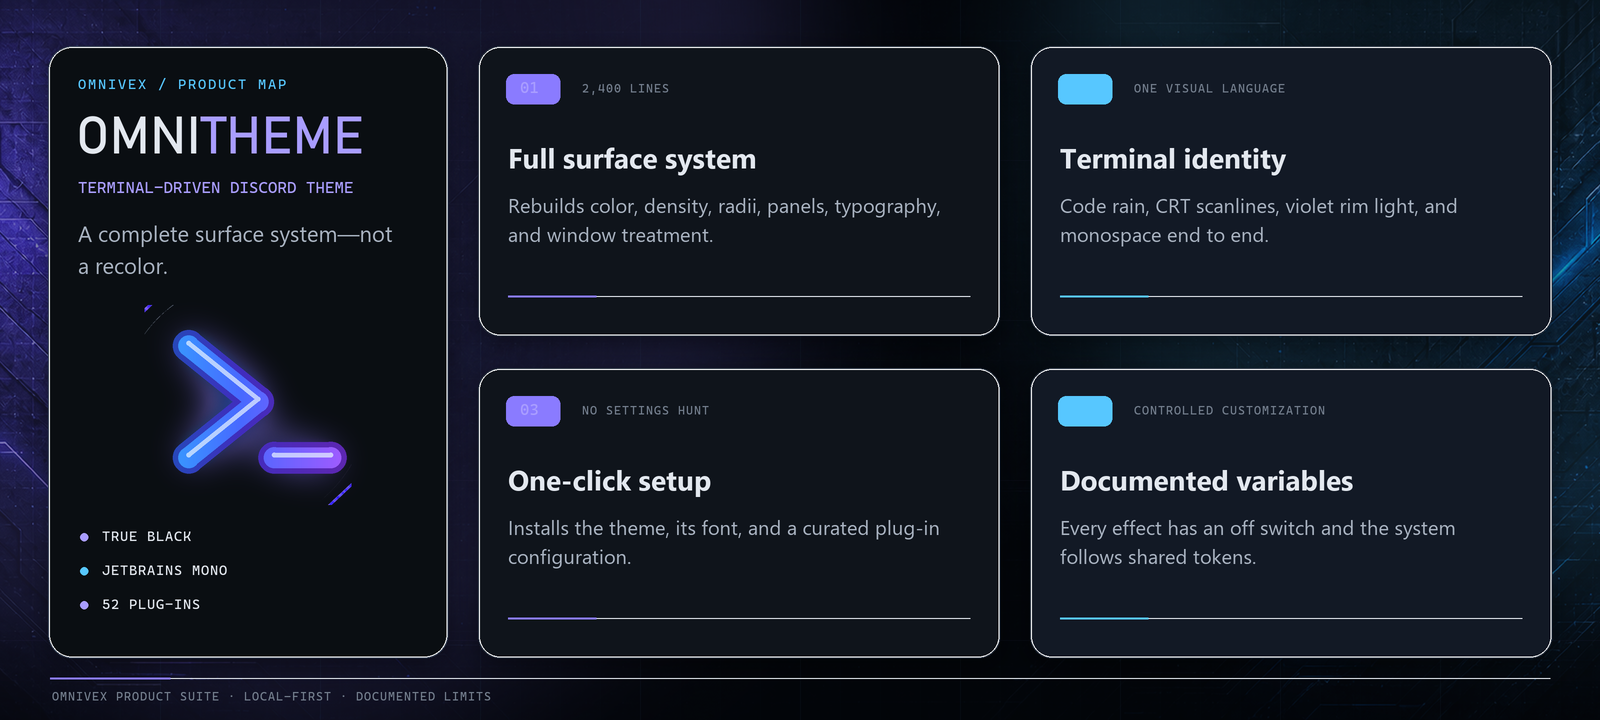
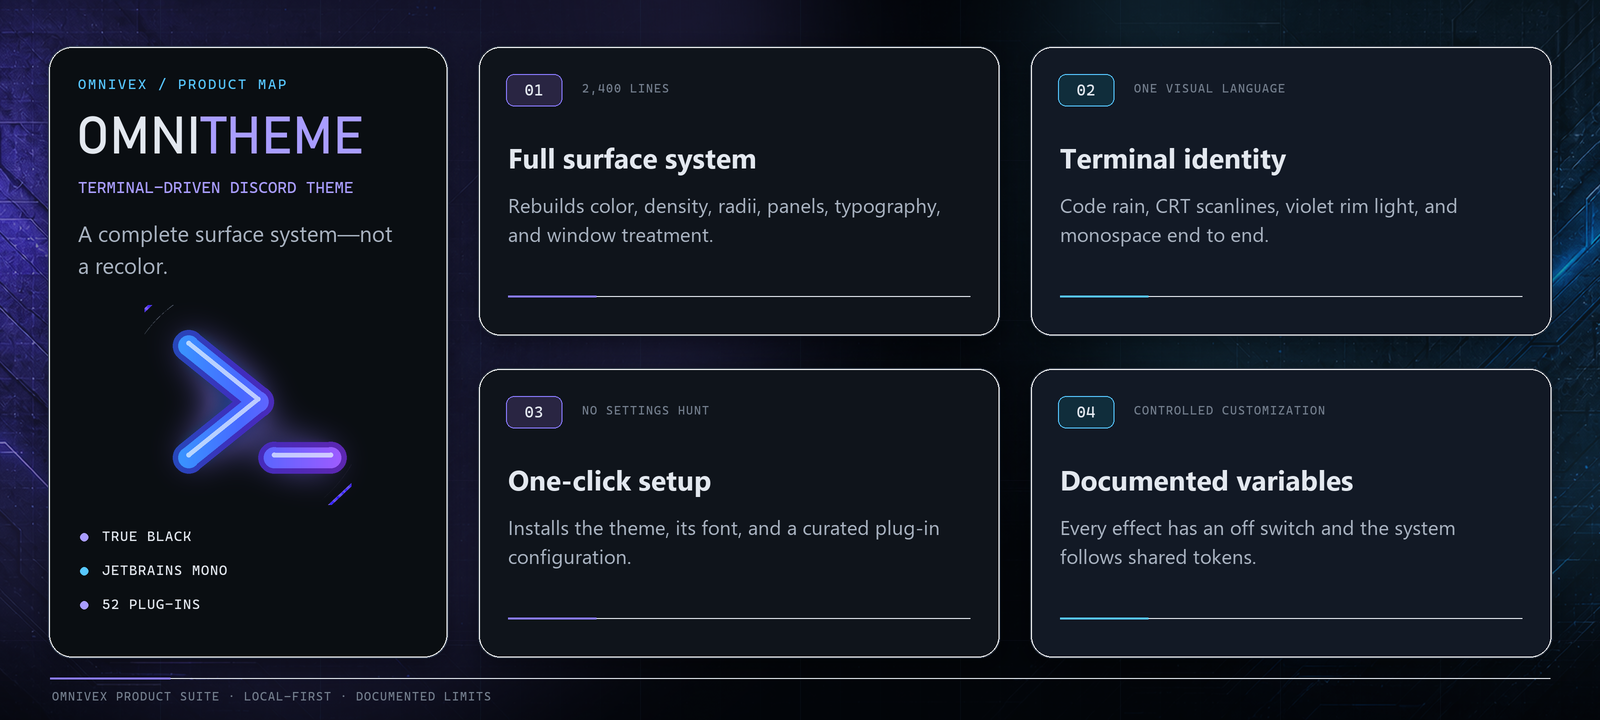
fix: show centered capability numbers (#12)

diff --git a/README.md b/README.md
@@ -56,7 +56,7 @@ plugins with preferences already tuned. No manual copying, no settings archaeolo
 
 ## Features
 
-![OmniTheme capability map covering the full surface system, terminal identity, one-click setup, and documented variables](assets/presentation/capabilities.png)
+![OmniTheme capability map covering the full surface system, terminal identity, one-click setup, and documented variables](assets/presentation/capabilities.png?v=20260823-visible-numbers-v3)
 
 ### The look
 
